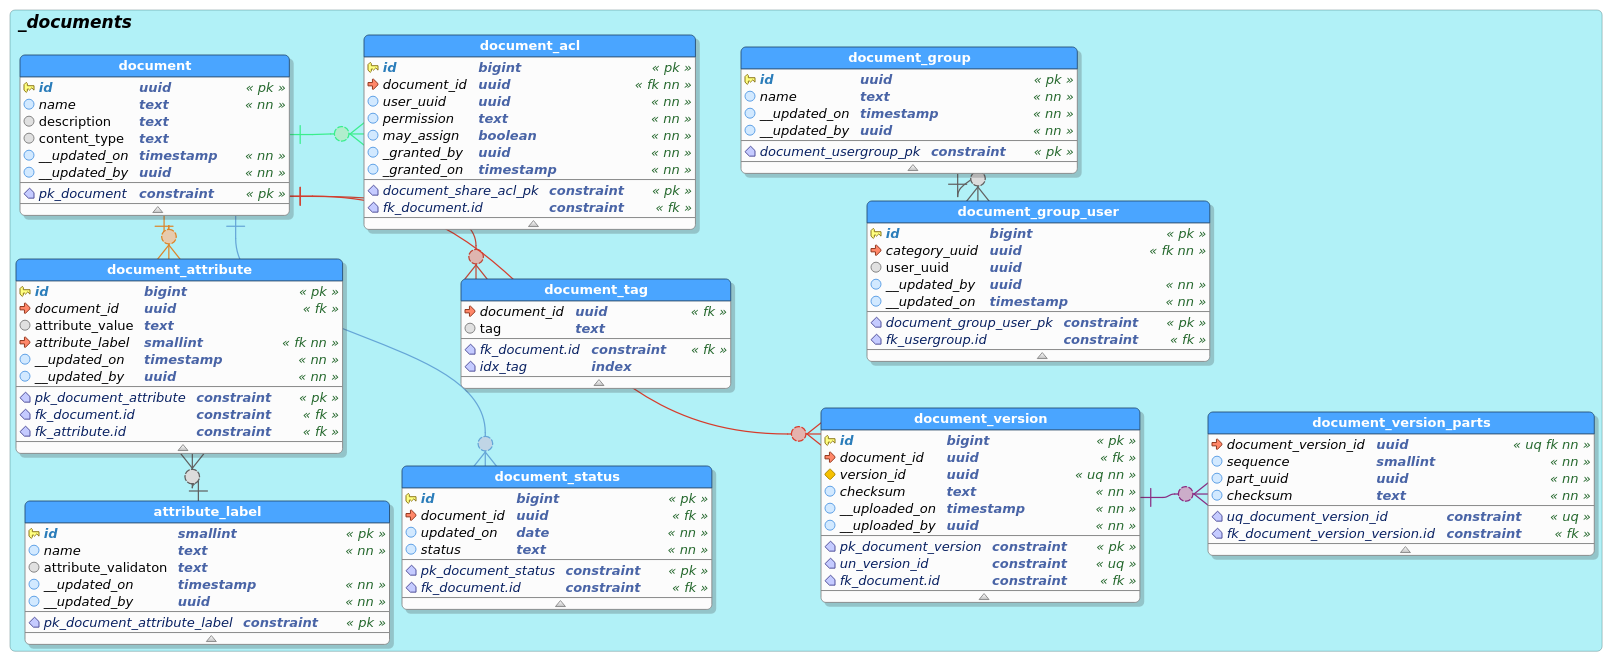
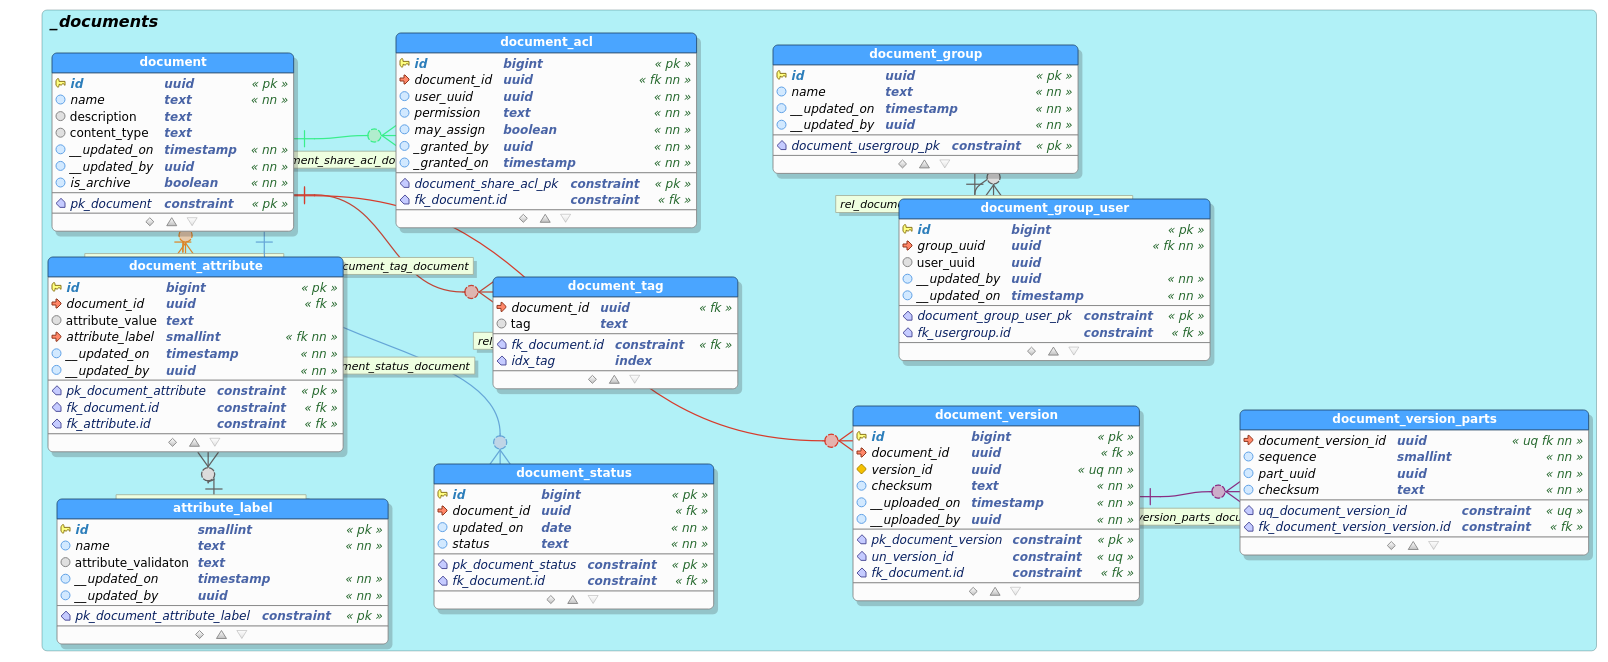
added archive/unarchive feature

Changed region(s): [[0.0, 0.0, 0.7774, 0.997], [0.4353, 0.6042, 0.995, 0.9366]]

diff --git a/src/test/java/za/co/grindrodbank/dokuti/document/DocumentControllerUnitTests.java b/src/test/java/za/co/grindrodbank/dokuti/document/DocumentControllerUnitTests.java
@@ -4,14 +4,23 @@
 ****************************************************/
 package za.co.grindrodbank.dokuti.document;
 
+import static org.hamcrest.CoreMatchers.is;
 import static org.springframework.test.web.servlet.request.MockMvcRequestBuilders.get;
 import static org.springframework.test.web.servlet.request.MockMvcRequestBuilders.put;
+import static org.springframework.test.web.servlet.request.MockMvcRequestBuilders.patch;
+import static org.springframework.test.web.servlet.result.MockMvcResultMatchers.jsonPath;
 import static org.springframework.test.web.servlet.result.MockMvcResultMatchers.status;
+
+import java.util.ArrayList;
+import java.util.HashSet;
 import java.util.UUID;
 
+import org.junit.Before;
 import org.junit.Test;
 import org.junit.runner.RunWith;
+import org.mockito.Mock;
 import org.mockito.Mockito;
+import org.mockito.MockitoAnnotations;
 import org.openapitools.model.DocumentInfoRequest;
 import org.springframework.beans.factory.annotation.Autowired;
 import org.springframework.boot.test.autoconfigure.web.servlet.MockMvcSecurityAutoConfiguration;
@@ -44,6 +53,10 @@ public class DocumentControllerUnitTests {
 	@MockBean
 	private DocumentService documentService;
 
+	
+    @Mock
+    private DocumentRepository documentRepository;
+    
 	@MockBean
 	private DocumentVersionService documentVersionService;
 
@@ -68,6 +81,11 @@ public class DocumentControllerUnitTests {
     @Autowired
     protected ObjectMapper objectMapper;
 
+    @Before
+    public void setUp() {
+        MockitoAnnotations.initMocks(this);
+    }    
+    
 	@Test
 	public void givenDocument_whenGetDocument_thenReturnJsonArray() throws Exception {
 
@@ -125,4 +143,66 @@ public class DocumentControllerUnitTests {
 				  .characterEncoding("utf-8"))
 		          .andExpect(status().is(200));	 
 	}
+	
+    @Test
+	public void givenDocument_whenDoDocumentArchive_thenReturnArchevedDocumnet() throws Exception {
+
+	        UUID documentId = UUID.randomUUID();
+
+	           DocumentEntity document = new DocumentEntity();
+	           document.setId(documentId);
+	           document.setContentType("text/plain");
+	           document.setDescription("Document Desc");
+	           document.setName("Document Name");
+	           document.setIsArchive(false);
+	           document.setDocumentVersions(new HashSet<>());
+	           document.setDocumentTags(new ArrayList<>());
+	           document.setGroups(new HashSet<>());
+	           document.setDocumentPermissions(new ArrayList<>());
+	           document.setDocumentAttributes(new ArrayList<>());
+	        
+	        
+	        Mockito.when(documentService.save(document)).thenReturn(document);
+	        Mockito.when(documentService.findById(documentId)).thenReturn(document);
+	        Mockito.when(databaseEntityToApiDataTranfserObjectMapperServiceImpl.mapDocumentEntityToDocument(document)).thenCallRealMethod();
+	        
+	        mvc.perform(patch("/documents/" + documentId.toString() + "/archive")
+	                  .contentType(MediaType.APPLICATION_JSON)
+	                  .characterEncoding("utf-8"))
+	                  .andExpect(status().is(200))
+	                  .andExpect(jsonPath("$.isArchive", is(true)));  
+	}
+
+    @Test
+    public void givenDocument_whenDoDocumentUnArchive_thenReturnUnArchevedDocumnet() throws Exception {
+
+           UUID documentId = UUID.randomUUID();
+
+           DocumentEntity document = new DocumentEntity();
+           document.setId(documentId);
+           document.setContentType("text/plain");
+           document.setDescription("Document Desc");
+           document.setName("Document Name");
+           document.setIsArchive(true);
+           document.setDocumentVersions(new HashSet<>());
+           document.setDocumentTags(new ArrayList<>());
+           document.setGroups(new HashSet<>());
+           document.setDocumentPermissions(new ArrayList<>());
+           document.setDocumentAttributes(new ArrayList<>());
+         
+           Mockito.when(documentService.save(document)).thenReturn(document);
+           Mockito.when(documentService.findById(documentId)).thenReturn(document);
+           Mockito.when(databaseEntityToApiDataTranfserObjectMapperServiceImpl.mapDocumentEntityToDocument(document)).thenCallRealMethod();
+          
+           
+           mvc.perform(patch("/documents/" + documentId.toString() + "/unarchive")
+                     .contentType(MediaType.APPLICATION_JSON)
+                     .characterEncoding("utf-8"))
+                     .andExpect(status().is(200))
+                     .andExpect(jsonPath("$.isArchive", is(false)));  
+    }	   
+	   
+   
+	   
+	
 }

diff --git a/src/main/java/za/co/grindrodbank/dokuti/document/DocumentEntity.java b/src/main/java/za/co/grindrodbank/dokuti/document/DocumentEntity.java
@@ -54,6 +54,10 @@ public class DocumentEntity {
 	@Type(type = "org.hibernate.type.TextType")
 	@NotNull
 	private String description;
+	
+	@NotNull
+	@Column(name = "is_archive", nullable = false)
+	private Boolean isArchive = false;
 
 	@Type(type = "org.hibernate.type.TextType")
 	@Column(name = "content_type", nullable = false)
@@ -174,7 +178,15 @@ public class DocumentEntity {
 		this.documentPermissions = documentPermissions;
 	}
 
-	public DocumentVersionEntity getLatestDocumentVersion() {
+	public Boolean getIsArchive() {
+        return isArchive;
+    }
+
+    public void setIsArchive(Boolean isArchive) {
+        this.isArchive = isArchive;
+    }
+
+    public DocumentVersionEntity getLatestDocumentVersion() {
 		Optional<DocumentVersionEntity> optionalLatestDocumentVersion = this.getDocumentVersions().stream().findFirst();
 
 		if (optionalLatestDocumentVersion.isPresent()) {
@@ -277,6 +289,7 @@ public class DocumentEntity {
 		result = prime * result + ((description == null) ? 0 : description.hashCode());
 		result = prime * result + ((id == null) ? 0 : id.hashCode());
 		result = prime * result + ((name == null) ? 0 : name.hashCode());
+		result = prime * result + ((isArchive == null) ? 0 : isArchive.hashCode());
 		return result;
 	}
 
@@ -309,7 +322,19 @@ public class DocumentEntity {
 				return false;
 		} else if (!name.equals(other.name))
 			return false;
+        if (isArchive == null) {
+            if (other.isArchive != null)
+                return false;
+        } else if (!isArchive.equals(other.isArchive))
+            return false;			
 		return true;
 	}
 
+    @Override
+    public String toString() {
+        return "DocumentEntity [id=" + id + ", name=" + name + ", description=" + description + ", isArchive=" + isArchive + ", contentType=" + contentType + ", updatedOn=" + updatedOn + ", updatedBy=" + updatedBy + "]";
+    }
+
+	
+	
 }

diff --git a/src/main/java/za/co/grindrodbank/dokuti/document/DocumentControllerImpl.java b/src/main/java/za/co/grindrodbank/dokuti/document/DocumentControllerImpl.java
@@ -240,4 +240,24 @@ public class DocumentControllerImpl implements DocumentsApi {
 		Document res = databaseEntityToApiDataTranfserObjectMapperService.mapDocumentEntityToDocument(documentEntity);
 		return new ResponseEntity<>(res, HttpStatus.OK);			
     }	
+	
+    private ResponseEntity<Document> changeAricheveStatus(UUID documentId, Boolean status) {
+        DocumentEntity documentEntity = documentService.findById(documentId);
+        documentEntity.setIsArchive(status);
+        documentEntity = documentService.save(documentEntity);
+        Document res = databaseEntityToApiDataTranfserObjectMapperService.mapDocumentEntityToDocument(documentEntity);
+        return new ResponseEntity<>(res, HttpStatus.OK);    
+
+    }
+	
+    @Override
+    public ResponseEntity<Document> aricheveDocument(UUID documentId) {
+       return changeAricheveStatus(documentId, true);
+
+    }
+    
+    @Override
+    public ResponseEntity<Document> unaricheveDocument(UUID documentId) {
+        return changeAricheveStatus(documentId, false);
+    }
 }
